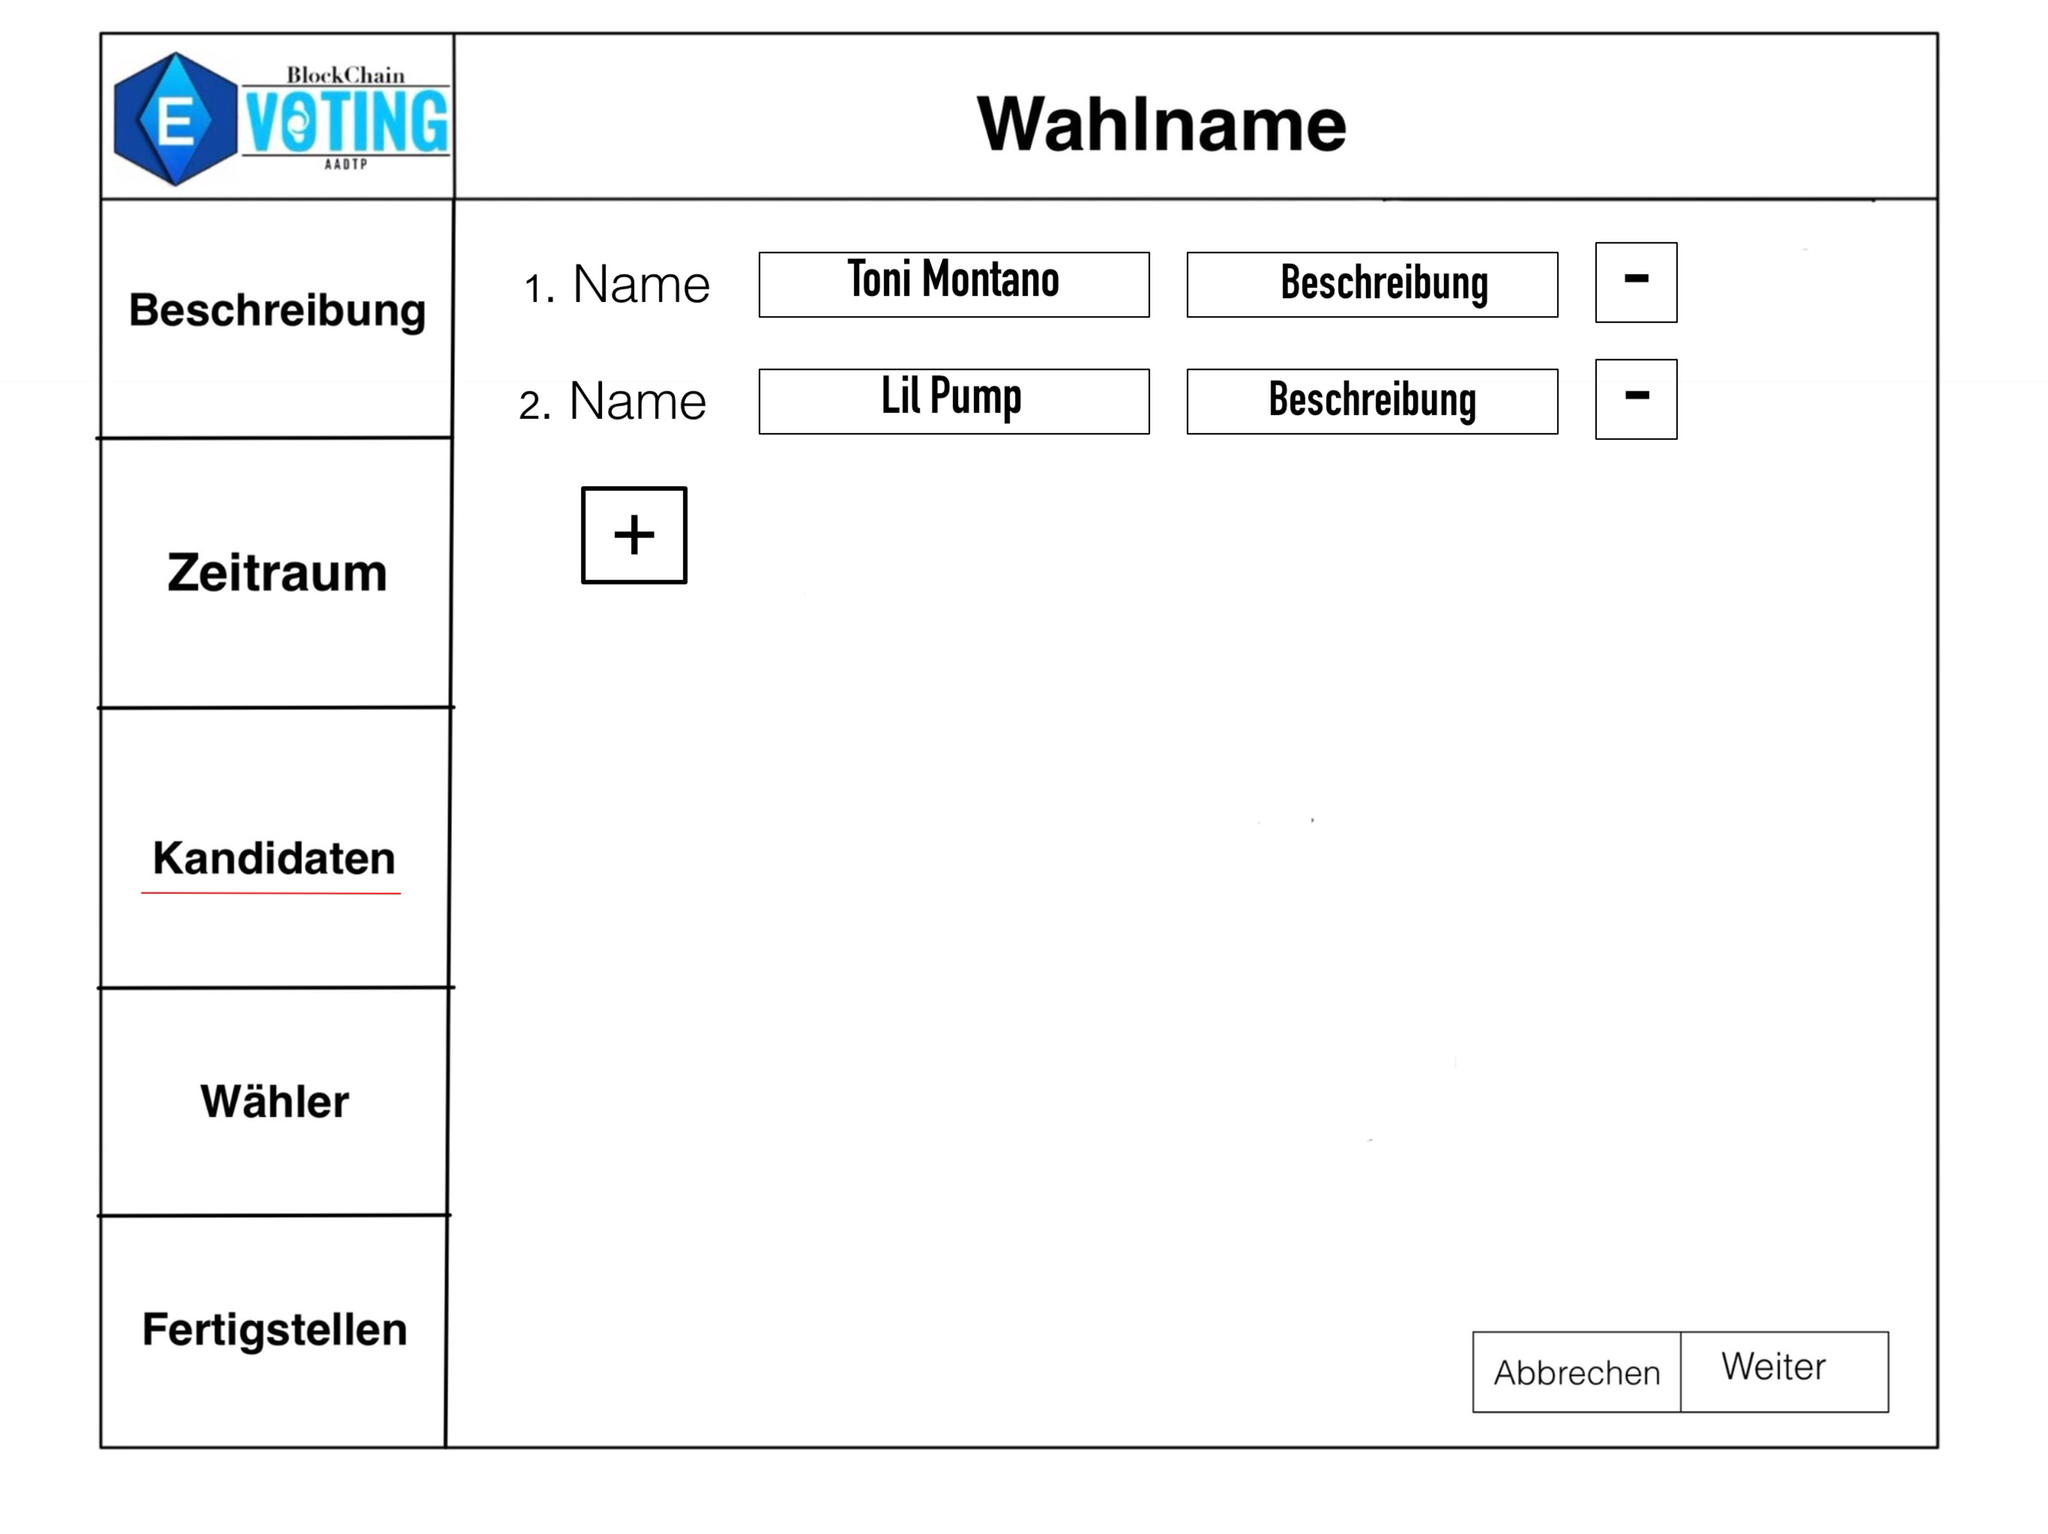
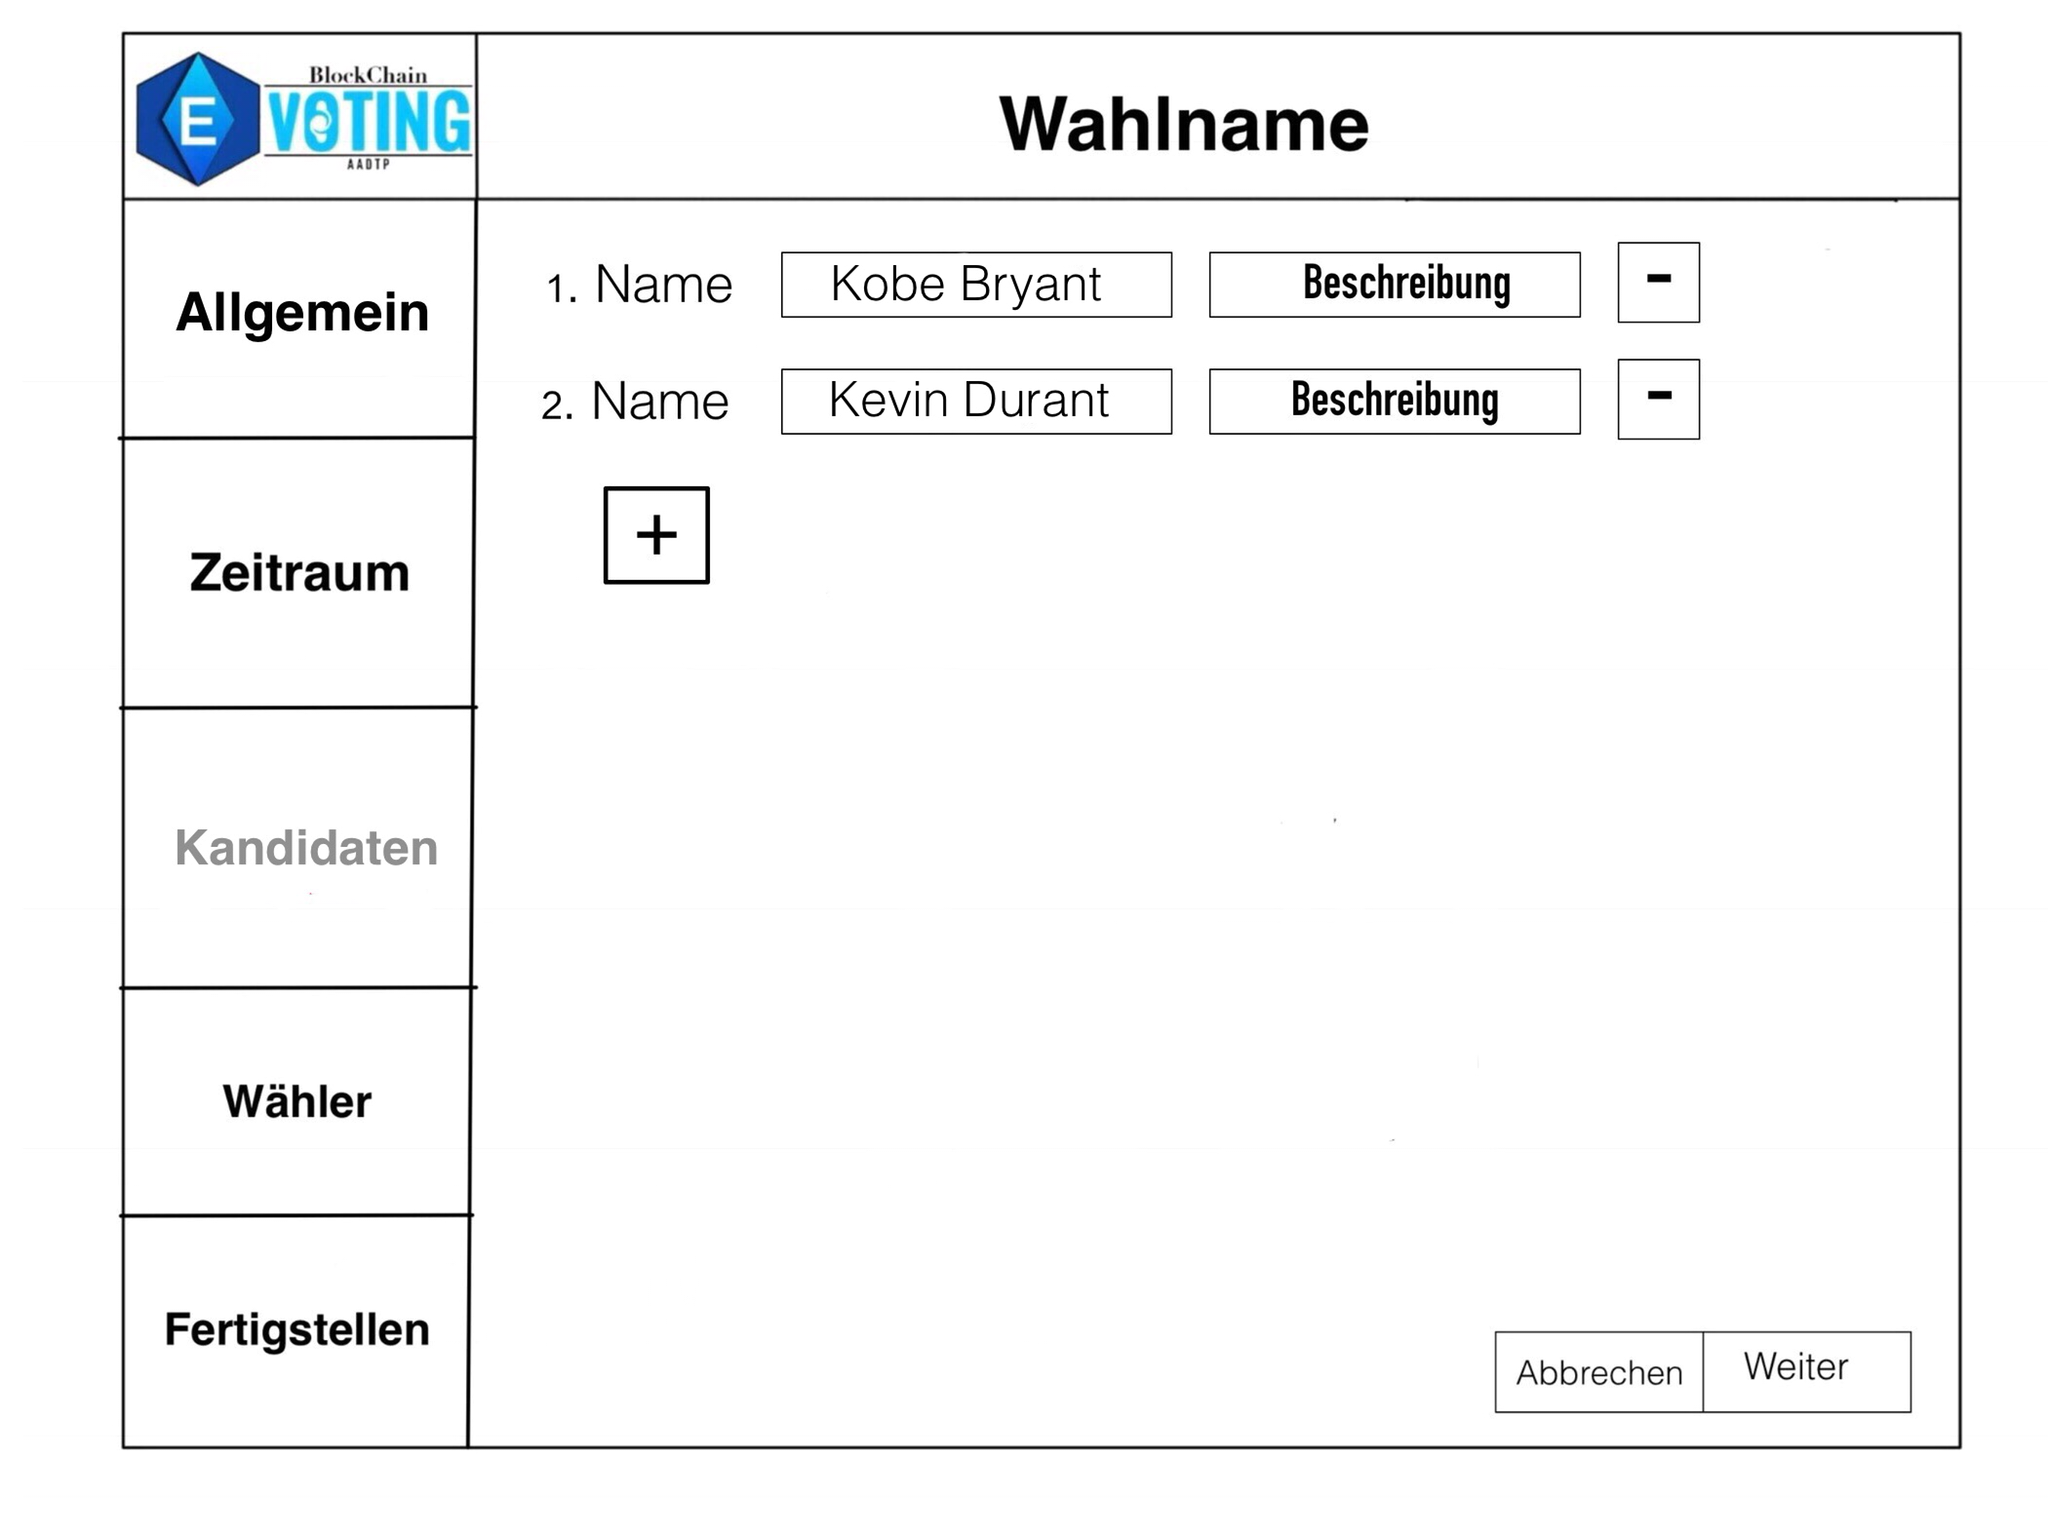
Updated UI and added new Wahlleiter UI

diff --git a/1-Pflichtenheft/pflichtenheft.tex b/1-Pflichtenheft/pflichtenheft.tex
@@ -408,6 +408,13 @@ Bei Problemen die Stimme eines Wählers in das \gls{Netzwerk} zu übertragen, wi
 \subsection{Wahlleiter}
 
 \begin{figure}[H]
+	\fbox{\includegraphics[width=\textwidth]{res/wahlleiter_start.jpg}}
+	\caption{\label{fig:wlltr-start}
+		Der \gls{Wahlleiter} kann über den \enquote{Wahlen importieren} Button eine bereits \glslink{Konfiguration}{konfigurierte} \gls{Wahl} laden oder über \enquote(Neue Wahlen erstellen) eine neue Wahl \glslink{Konfiguration}{konfigurieren}. 
+	}
+\end{figure}
+
+\begin{figure}[H]
 	\fbox{\includegraphics[width=\textwidth]{res/wahlleiter_allgemein.jpg}}
 	\caption{\label{fig:wlltr-general}
 		Allgemeine Einstellungen einer Wahl.
